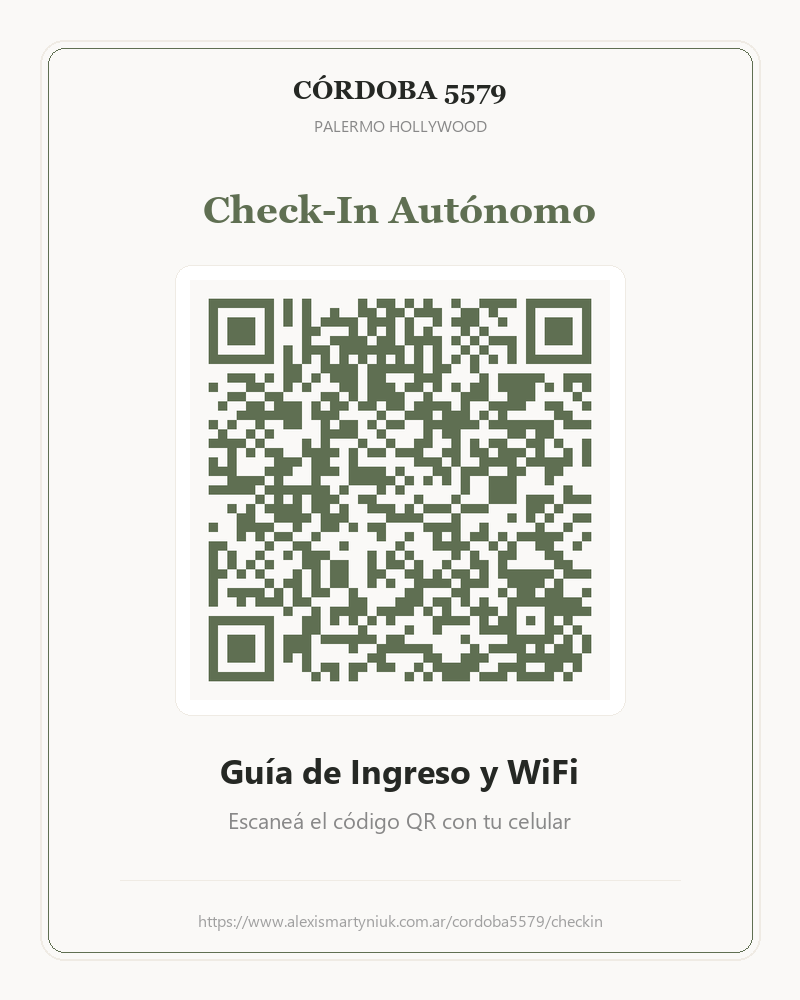
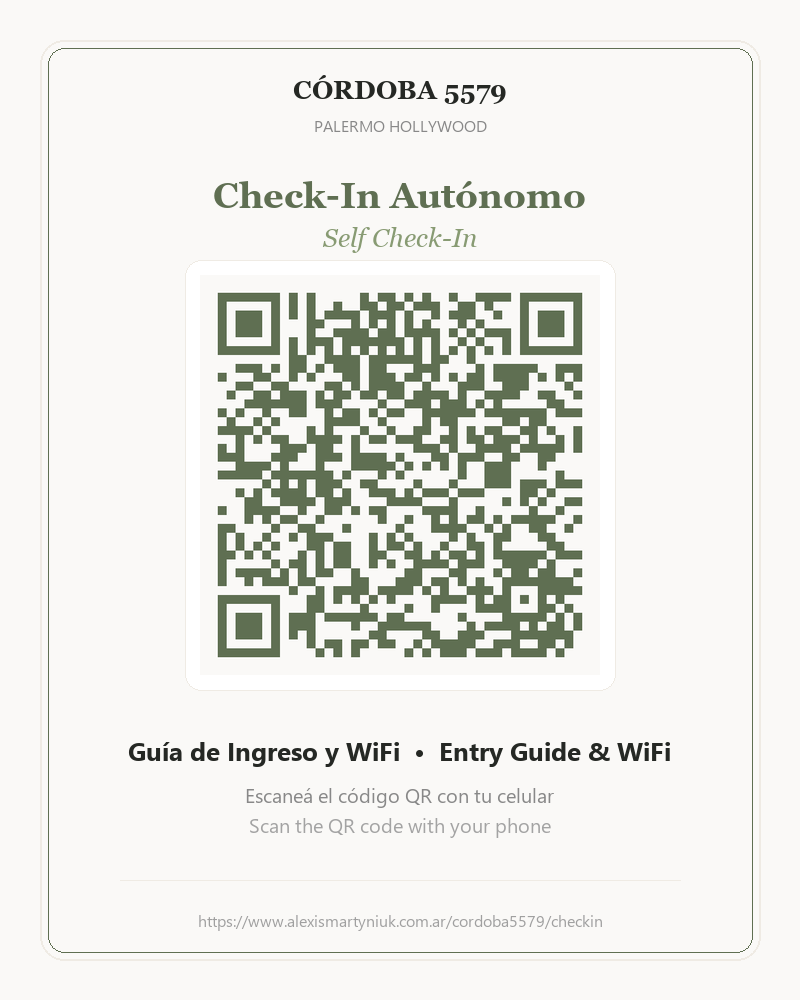
UI: Add bilingual Spanish/English support to print-ready QR cards

Changed region(s): [[0.25, 0.279, 0.75, 0.682], [0.1562, 0.744, 0.8438, 0.837], [0.25, 0.186, 0.75, 0.248]]

diff --git a/scripts/generate_qrs.py b/scripts/generate_qrs.py
@@ -25,24 +25,30 @@ CODES = [
     {
         "name": "cava",
         "url": f"{BASE_URL}/cava",
-        "label": "Cava & Minibar",
-        "sublabel": "Menú Digital de Vinos",
+        "label_es": "Cava & Minibar",
+        "label_en": "Wine Cellar & Minibar",
+        "sublabel_es": "Menú Digital de Vinos",
+        "sublabel_en": "Digital Wine Menu",
         "color": "#5F6F52",         # Olive green
         "bg": "#FAF9F7",
     },
     {
         "name": "checkin",
         "url": f"{BASE_URL}/checkin",
-        "label": "Check-In Autónomo",
-        "sublabel": "Guía de Ingreso y WiFi",
+        "label_es": "Check-In Autónomo",
+        "label_en": "Self Check-In",
+        "sublabel_es": "Guía de Ingreso y WiFi",
+        "sublabel_en": "Entry Guide & WiFi",
         "color": "#5F6F52",         # Olive green
         "bg": "#FAF9F7",
     },
     {
         "name": "whatsapp",
         "url": WHATSAPP_URL,
-        "label": "Contacto Directo",
-        "sublabel": "WhatsApp Anfitrión",
+        "label_es": "Contacto Directo",
+        "label_en": "Direct Contact",
+        "sublabel_es": "WhatsApp Anfitrión",
+        "sublabel_en": "Host WhatsApp",
         "color": "#5F6F52",         # Olive green
         "bg": "#FAF9F7",
     },
@@ -74,21 +80,24 @@ def make_card(code: dict) -> Image.Image:
     # Use premium system fonts if available
     try:
         font_logo = ImageFont.truetype("georgiab.ttf", 26) # Georgia Bold for serif logo
-        font_title = ImageFont.truetype("georgiab.ttf", 38)
-        font_label = ImageFont.truetype("segoeuib.ttf", 34) # Segoe UI Bold
-        font_sublabel = ImageFont.truetype("segoeui.ttf", 22)
+        font_title_es = ImageFont.truetype("georgiab.ttf", 36)
+        font_title_en = ImageFont.truetype("georgiai.ttf", 26) # Georgia Italic
+        font_label = ImageFont.truetype("segoeuib.ttf", 26) # Segoe UI Bold
+        font_sublabel = ImageFont.truetype("segoeui.ttf", 20)
         font_url = ImageFont.truetype("segoeui.ttf", 16)
     except IOError:
         # Fallback to standard times / arial
         try:
             font_logo = ImageFont.truetype("timesbd.ttf", 26)
-            font_title = ImageFont.truetype("timesbd.ttf", 38)
-            font_label = ImageFont.truetype("arialbd.ttf", 34)
-            font_sublabel = ImageFont.truetype("arial.ttf", 22)
+            font_title_es = ImageFont.truetype("timesbd.ttf", 36)
+            font_title_en = ImageFont.truetype("timesi.ttf", 26)
+            font_label = ImageFont.truetype("arialbd.ttf", 26)
+            font_sublabel = ImageFont.truetype("arial.ttf", 20)
             font_url = ImageFont.truetype("arial.ttf", 16)
         except IOError:
             font_logo = ImageFont.load_default()
-            font_title = font_logo
+            font_title_es = font_logo
+            font_title_en = font_logo
             font_label = font_logo
             font_sublabel = font_logo
             font_url = font_logo
@@ -117,16 +126,17 @@ def make_card(code: dict) -> Image.Image:
     # Subtitle for logo
     draw.text((W // 2, 125), "PALERMO HOLLYWOOD", fill="#888888", font=font_url, anchor="mm")
 
-    # Dynamic Title of the card
-    draw.text((W // 2, 210), code["label"], fill=code["color"], font=font_title, anchor="mm")
+    # Dynamic Title of the card (Bilingual Stacked)
+    draw.text((W // 2, 195), code["label_es"], fill=code["color"], font=font_title_es, anchor="mm")
+    draw.text((W // 2, 238), code["label_en"], fill="#889B73", font=font_title_en, anchor="mm")
 
     # QR code
     # Ensure QR background matches card background
     qr_img = make_qr(code["url"], code["color"], code["bg"])
-    qr_size = 420
+    qr_size = 400
     qr_img = qr_img.resize((qr_size, qr_size), Image.LANCZOS)
     qr_x = (W - qr_size) // 2
-    qr_y = 280
+    qr_y = 275
     
     # Draw a subtle background card container for the QR
     draw.rounded_rectangle(
@@ -138,11 +148,13 @@ def make_card(code: dict) -> Image.Image:
     )
     card.paste(qr_img, (qr_x, qr_y), mask=qr_img)
 
-    # Sublabel
-    draw.text((W // 2, 770), code["sublabel"], fill="#252824", font=font_label, anchor="mm")
+    # Sublabel (Combined on one line with separator)
+    sublabel_text = f"{code['sublabel_es']}  •  {code['sublabel_en']}"
+    draw.text((W // 2, 750), sublabel_text, fill="#252824", font=font_label, anchor="mm")
     
-    # Action instruction
-    draw.text((W // 2, 820), "Escaneá el código QR con tu celular", fill="#888888", font=font_sublabel, anchor="mm")
+    # Action instructions (Bilingual Stacked)
+    draw.text((W // 2, 795), "Escaneá el código QR con tu celular", fill="#888888", font=font_sublabel, anchor="mm")
+    draw.text((W // 2, 825), "Scan the QR code with your phone", fill="#a3a3a3", font=font_sublabel, anchor="mm")
 
     # Divider line
     y_div = 880
